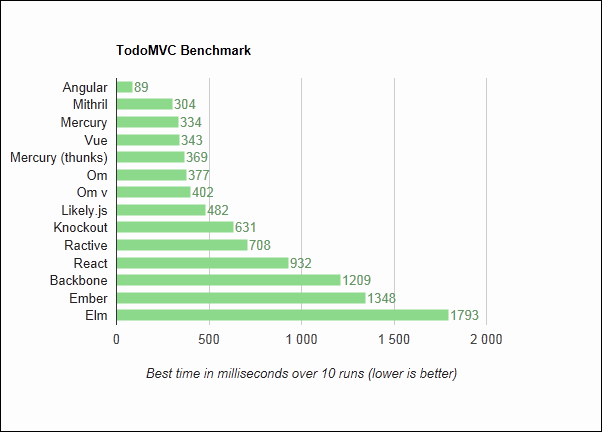
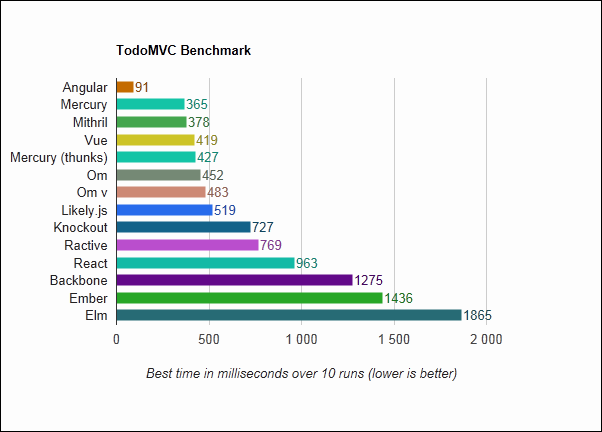
color and border

Changed region(s): [[0.0897, 0.1806, 0.8372, 0.7523]]

diff --git a/todomvc-benchmark/resources/manager.js b/todomvc-benchmark/resources/manager.js
@@ -144,7 +144,8 @@ google.load("visualization", "1", {packages:["corechart"]});
 function drawChart(results) {
     var rawData = [];
     for (var key in results) {
-        var color = 'rgb(140, 217, 140)';
+        console.log("Hey "+ key)
+        var color = colorify(key);
         rawData.push([ key, Math.round(results[key]), color ]);
     }
     rawData.sort(function(a, b){ return a[1] - b[1] })
@@ -190,6 +191,14 @@ function shuffle ( ary ) {
      ary[i] = tempj;
      ary[j] = tempi;
    }
+}
+
+function colorify(n){
+    var c = 'rgb(' + ( Math.max(0,(n.toLowerCase().charCodeAt(3 % n.length) - 97) / 26 * 255 | 0) ) + 
+              ", " + ( Math.max(0,(n.toLowerCase().charCodeAt(4 % n.length) - 97) / 26 * 255 | 0) ) +
+              ", " + ( Math.max(0,(n.toLowerCase().charCodeAt(5 % n.length) - 97) / 26 * 255 | 0) ) + ")"
+    console.log(n.charCodeAt(2 % n.length), 2 % n.length, c)
+    return c
 }
 
 window.addEventListener('load', startTest);

diff --git a/todomvc-benchmark/index.html b/todomvc-benchmark/index.html
@@ -20,7 +20,7 @@ nav { position: absolute; right: 10px; }
 </style>
 </head>
 <body>
-  <div id="analysis" style="float:left; display: none;">
+  <div id="analysis" style="float:left; display: none; border: 1px solid #888;">
     <div id="barchart_values"></div>
     <div style="width: 400px; margin: 30px;">
     </div>
